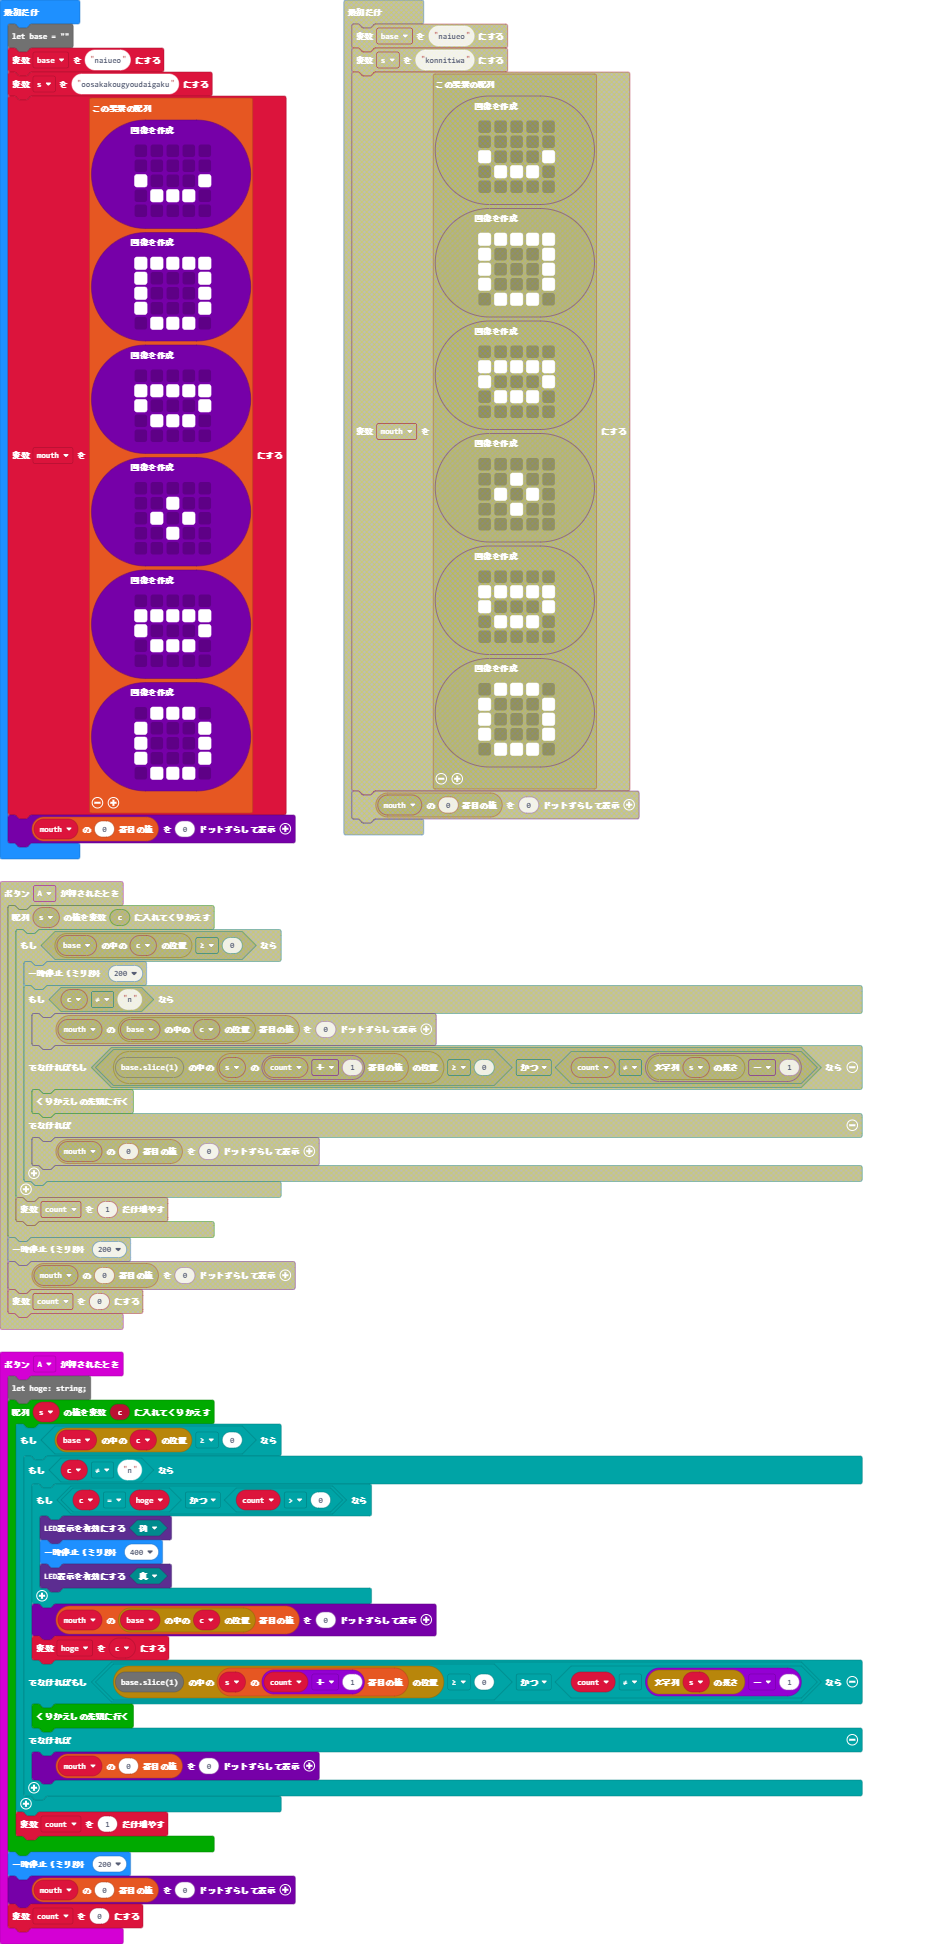
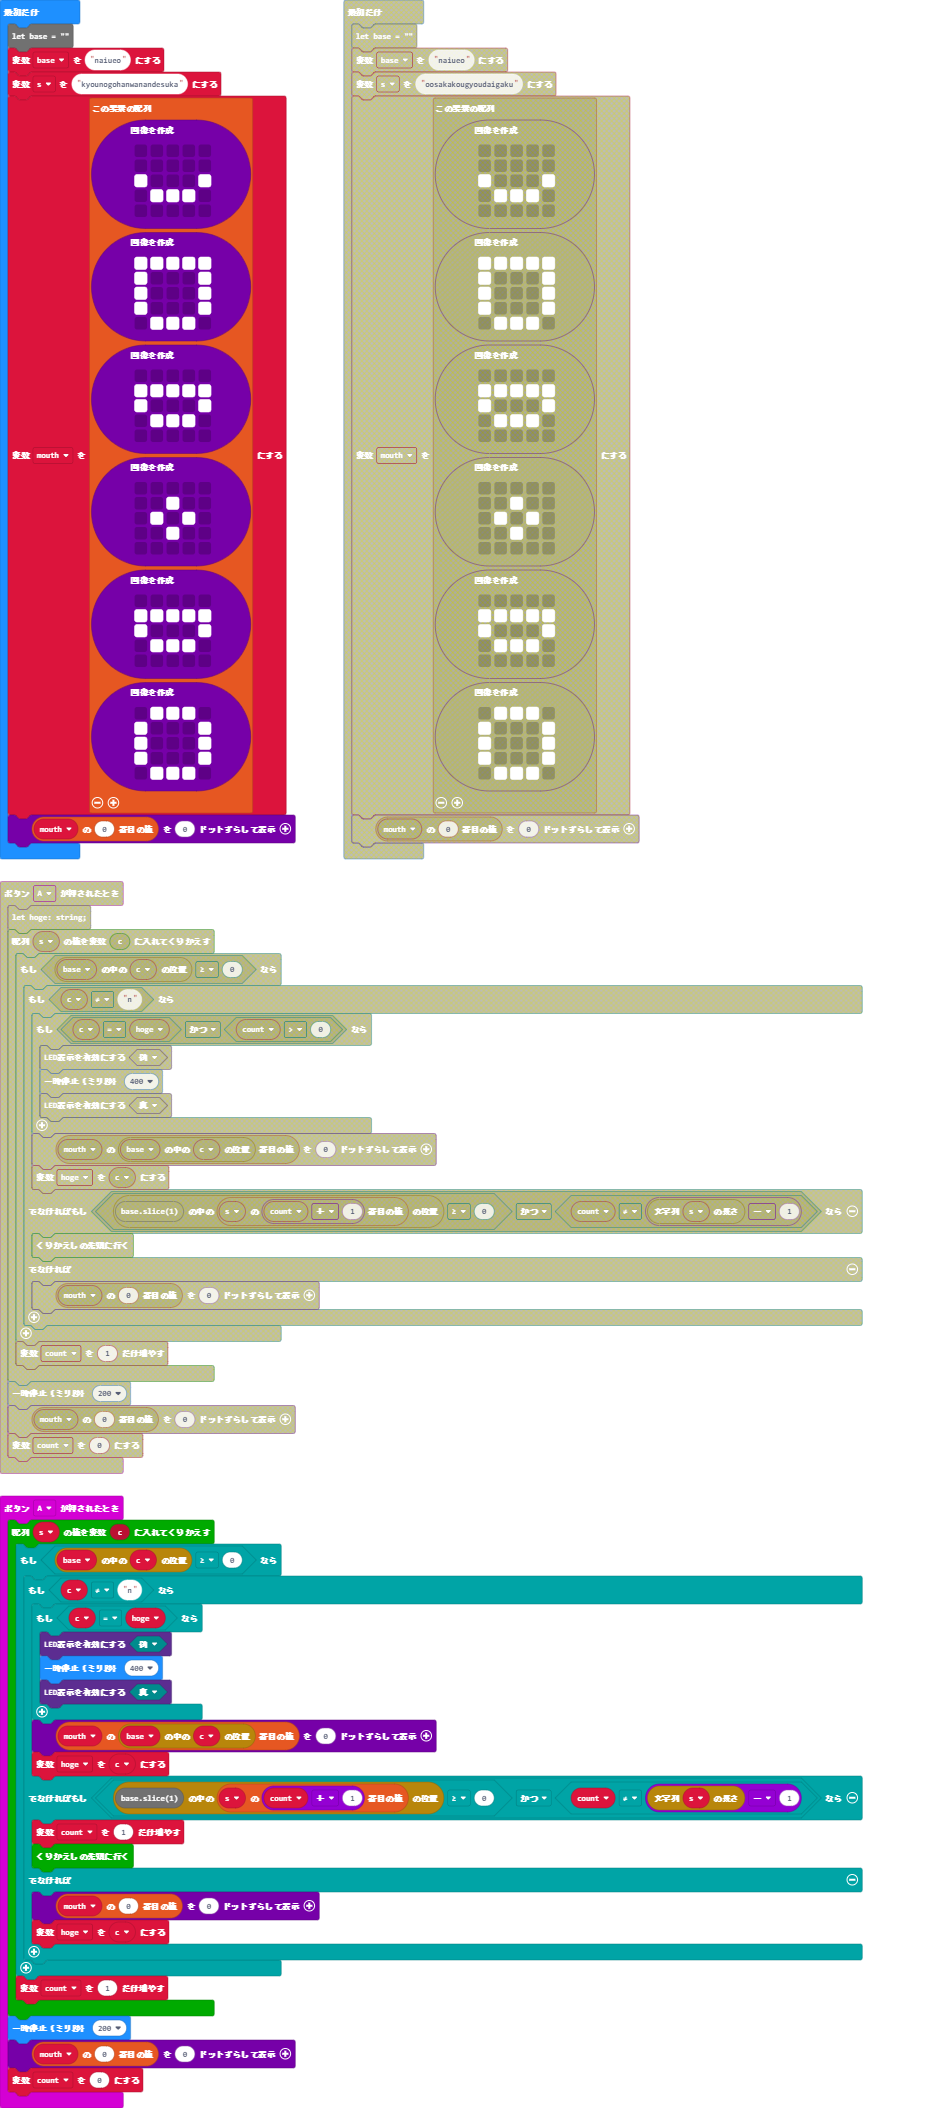
countしていないバグ

diff --git a/main.ts b/main.ts
@@ -1,10 +1,9 @@
 input.onButtonPressed(Button.A, function on_button_pressed_a() {
-    let hoge: string;
     
     for (let c of s) {
         if (base.indexOf(c) >= 0) {
             if (c != "n") {
-                if (c == hoge && count > 0) {
+                if (c == hoge) {
                     led.enable(false)
                     basic.pause(400)
                     led.enable(true)
@@ -13,9 +12,11 @@ input.onButtonPressed(Button.A, function on_button_pressed_a() {
                 mouth[base.indexOf(c)].showImage(0)
                 hoge = c
             } else if (base.slice(1).indexOf(s[count + 1]) >= 0 && count != s.length - 1) {
+                count += 1
                 continue
             } else {
                 mouth[0].showImage(0)
+                hoge = c
             }
             
         }
@@ -26,12 +27,13 @@ input.onButtonPressed(Button.A, function on_button_pressed_a() {
     mouth[0].showImage(0)
     count = 0
 })
+let hoge = ""
 let count = 0
 let mouth : Image[] = []
 let s = ""
 let base = ""
 base = "naiueo"
-s = "oosakakougyoudaigaku"
+s = "kyounogohanwanandesuka"
 mouth = [images.createImage(`
     . . . . .
     . . . . .

diff --git a/main.py b/main.py
@@ -1,30 +1,33 @@
 def on_button_pressed_a():
-    global count
+    global hoge, count
     for c in s:
         if base.index_of(c) >= 0:
             if c != "n":
-                if c == hoge and count > 0:
+                if c == hoge:
                     led.enable(False)
                     basic.pause(400)
                     led.enable(True)
                 mouth[base.index_of(c)].show_image(0)
                 hoge = c
             elif base.slice(1).index_of(s[count + 1]) >= 0 and count != len(s) - 1:
+                count += 1
                 continue
             else:
                 mouth[0].show_image(0)
+                hoge = c
         count += 1
     basic.pause(200)
     mouth[0].show_image(0)
     count = 0
 input.on_button_pressed(Button.A, on_button_pressed_a)
 
+hoge = ""
 count = 0
 mouth: List[Image] = []
 s = ""
 base = ""
 base = "naiueo"
-s = "oosakakougyoudaigaku"
+s = "kyounogohanwanandesuka"
 mouth = [images.create_image("""
     . . . . .
     . . . . .
